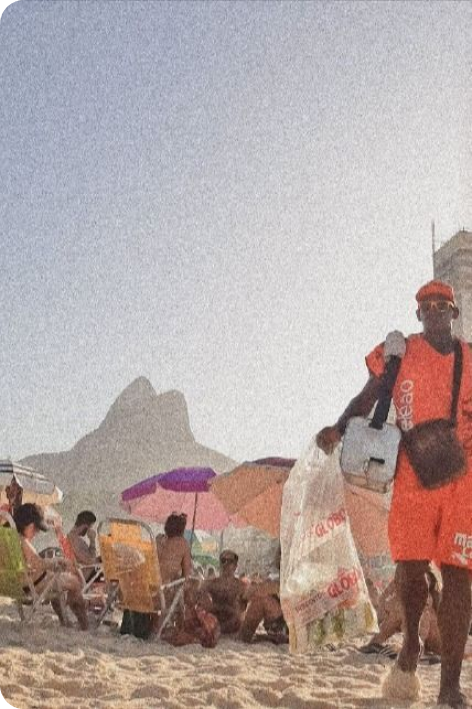
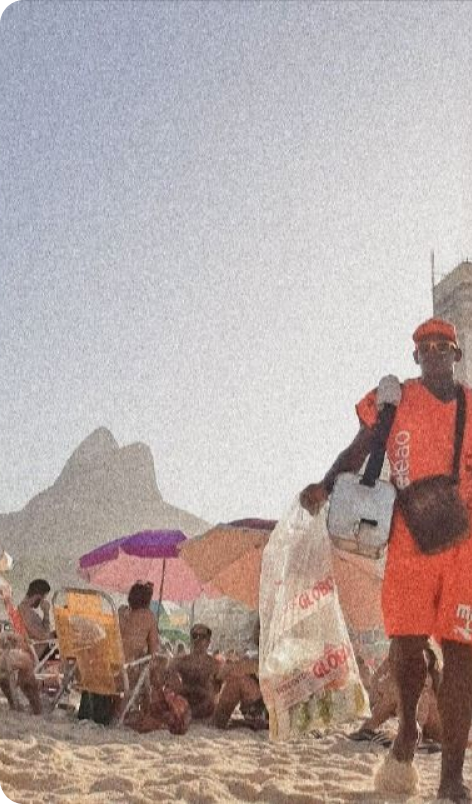
last qa

diff --git a/src/components/AboutMe/AboutMe.tsx b/src/components/AboutMe/AboutMe.tsx
@@ -39,10 +39,10 @@ export default function AboutMe() {
           }
         >
           <div className="row">
-            <div className="desktop-only">
+            <div className="desktop-only image-container ">
               <img src="/banners/carioca.png" alt="carioca" />
             </div>
-            <div className="content">
+            <div className="content scroll-box">
               <h3>crônicas urbanas de uma carioca inspirada</h3>
               <p>
                 Carioca do Aterro do Flamengo – desde cedo compartilhava a
@@ -99,7 +99,7 @@ export default function AboutMe() {
             <div className="desktop-only image-container">
               <img src="/banners/marifoto.png" alt="carioca" />
             </div>
-            <div className="content">
+            <div className="content scroll-box">
               <h3>
                 Como vim parar aqui - um relato da minha trajetória profissional
               </h3>

diff --git a/src/components/ProjectsList/ProjectsList.tsx b/src/components/ProjectsList/ProjectsList.tsx
@@ -56,7 +56,7 @@ export default function ProjectsList() {
       title: 'shopee',
       logoProject: '/shopee-icon.png',
       description:
-        'Redesign do fluxo de Carrinho e Checkout do aplicativo de varejo eletrônico Shopee.',
+        'Redesign do fluxo de carrinho e checkout do aplicativo de varejo eletrônico shopee.',
       imageMockup: '/mockup3.png',
       backgroundImage: '/bg-shopee.png',
       icons: [
@@ -79,7 +79,7 @@ export default function ProjectsList() {
 
   return (
     <div className="projectslist">
-      <h2>Projetos</h2>
+      <h2>projetos</h2>
       <div className="projectslist-items">
         {data.map((item, index) => (
           <div key={index} id={item.name}>

diff --git a/src/Containers/Modal/style.scss b/src/Containers/Modal/style.scss
@@ -66,16 +66,19 @@
     .modal-body {
       font-size: 1rem;
       line-height: 1.5;
-
       max-height: 80vh;
 
+      @include desktop {
+        height: 804px;
+        // width: 472px;
+        max-height: 804px;
+      }
+
       .image-container {
-        overflow: hidden;
-        width: 100%;
         justify-content: center;
 
         img {
-          height: 100%;
+          height: 804px;
           width: auto;
         }
       }
@@ -87,6 +90,12 @@
       border-radius: 8px;
       padding: 10px;
       scrollbar-width: 8px;
+      height: calc(804px - 140px);
+
+      @include desktop {
+        height: calc(804px - 100px);
+      }
+
     }
 
     .scroll-box::-webkit-scrollbar {

diff --git a/src/Containers/Carrousel/Carrousel.tsx b/src/Containers/Carrousel/Carrousel.tsx
@@ -49,11 +49,11 @@ export default function Carousel({
   return (
     <div className="carousel">
       {navegation ? (
-        <SetaCarrousel className={`setacarrousel-next-${randId}`} />
+        <SetaCarrousel className={`setacarrousel-next-${randId} reverse`} />
       ) : null}
 
       {navegation ? (
-        <SetaCarrousel className={`setacarrousel-prev-${randId} reverse`} />
+        <SetaCarrousel className={`setacarrousel-prev-${randId}`} />
       ) : null}
 
       <Swiper

diff --git a/src/Pages/ProjectYouNail/ProjectYouNail.tsx b/src/Pages/ProjectYouNail/ProjectYouNail.tsx
@@ -312,7 +312,7 @@ export default function ProjectYouNail() {
             <h4>leia mais </h4>
             <div className="row-mobile">
               <img src="/mockup2.png" alt="MockupsFlatlay" />
-              <span>Honeybee parceiros, painel para afiliados e-commerce</span>
+              <span>honeybe parceiros, painel para afiliados e-commerce</span>
             </div>
           </CustomButton>
           <CustomButton href="/projetos/shopee">

diff --git a/src/Pages/ProjectShopee/ProjectShopee.tsx b/src/Pages/ProjectShopee/ProjectShopee.tsx
@@ -138,7 +138,7 @@ export default function ProjectShopee() {
             <h4>leia mais </h4>
             <div className="row-mobile">
               <img src="/mockup2.png" alt="MockupsFlatlay" />
-              <span>Honeybee parceiros, painel para afiliados e-commerce</span>
+              <span>Honeybe parceiros, painel para afiliados e-commerce</span>
             </div>
           </CustomButton>
         </div>

diff --git a/src/Containers/Modal/Modal.tsx b/src/Containers/Modal/Modal.tsx
@@ -36,7 +36,7 @@ export default function Modal({ children, trigger }: ModalProps) {
             <button className="modal-close" onClick={closeModal}>
               &times;
             </button>
-            <div className="modal-body scroll-box">{children}</div>
+            <div className="modal-body">{children}</div>
           </div>
         </div>
       )}

diff --git a/src/components/SeteCarrousel/style.scss b/src/components/SeteCarrousel/style.scss
@@ -10,15 +10,17 @@
     opacity: 0;
     visibility: hidden;
 
-    left: -65px;
-    right: auto;
+
+
+    left: auto;
+    right: -65px;
     z-index: 9;
     transition: opacity 0.3s ease, visibility 0.3s ease;
 
     &.reverse {
       transform: rotate(180deg);
-      left: auto;
-      right: -65px;
+      left: -65px;
+      right: auto;
     }
   }
 
